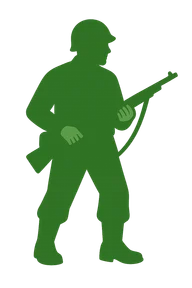
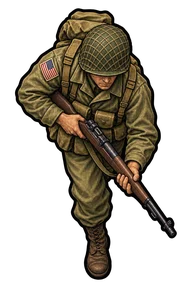
feat: infantry stands on the board as six figures, units without a token behind them

diff --git a/src/components/UnitComponent.tsx b/src/components/UnitComponent.tsx
@@ -84,8 +84,21 @@ const starPath = (cx: number, cy: number, outer: number, inner: number) =>
 const SPRITE_SIZE = 44;
 const BADGE_RADIUS = 10;
 
+// Preview: infantry stands in the hex as this many figures
+const INFANTRY_FIGURES = 6;
+const FIGURE_SIZE = 30;
+/** Where each figure stands, from the centre: back row first, so the front row overlaps it */
+const FIGURE_SPOTS: ReadonlyArray<readonly [number, number]> = [
+  [-20, -14],
+  [0, -16],
+  [20, -14],
+  [-20, 12],
+  [0, 14],
+  [20, 12],
+];
+
 /**
- * A unit as a round token in its side's colour. A dashed gold ring marks a
+ * A unit as its side's sprite, with no token behind it. A dashed gold ring marks a
  * unit that can be ordered; a badge shows it will fire (crosshair) or has
  * fired (check).
  */
@@ -111,17 +124,6 @@ const UnitComponent: React.FC<UnitProps> = ({
 
   return (
     <g className="unit">
-      <circle
-        className="unit__token"
-        cx={x}
-        cy={y}
-        r={TOKEN_RADIUS}
-        fill="#f1ead6"
-        fillOpacity={0.9}
-        stroke={FACTION_COLORS[faction]}
-        strokeWidth={4}
-      />
-
       {orderable && (
         <circle
           className="unit__ring unit__ring--orderable"
@@ -135,15 +137,30 @@ const UnitComponent: React.FC<UnitProps> = ({
         />
       )}
 
-      <image
-        href={href}
-        data-unit-type={unitType}
-        x={x - SPRITE_SIZE / 2}
-        y={y - SPRITE_SIZE / 2}
-        width={SPRITE_SIZE}
-        height={SPRITE_SIZE}
-        preserveAspectRatio="xMidYMid meet"
-      />
+      {unitType === UnitType.INFANTRY ? (
+        FIGURE_SPOTS.slice(0, INFANTRY_FIGURES).map(([dx, dy], i) => (
+          <image
+            key={i}
+            href={href}
+            data-unit-type={unitType}
+            x={x + dx - FIGURE_SIZE / 2}
+            y={y + dy - FIGURE_SIZE / 2}
+            width={FIGURE_SIZE}
+            height={FIGURE_SIZE}
+            preserveAspectRatio="xMidYMid meet"
+          />
+        ))
+      ) : (
+        <image
+          href={href}
+          data-unit-type={unitType}
+          x={x - SPRITE_SIZE / 2}
+          y={y - SPRITE_SIZE / 2}
+          width={SPRITE_SIZE}
+          height={SPRITE_SIZE}
+          preserveAspectRatio="xMidYMid meet"
+        />
+      )}
 
       {/* The scenario's elite badge (moves its whole move and fires), top left */}
       {unitData?.elite && (
